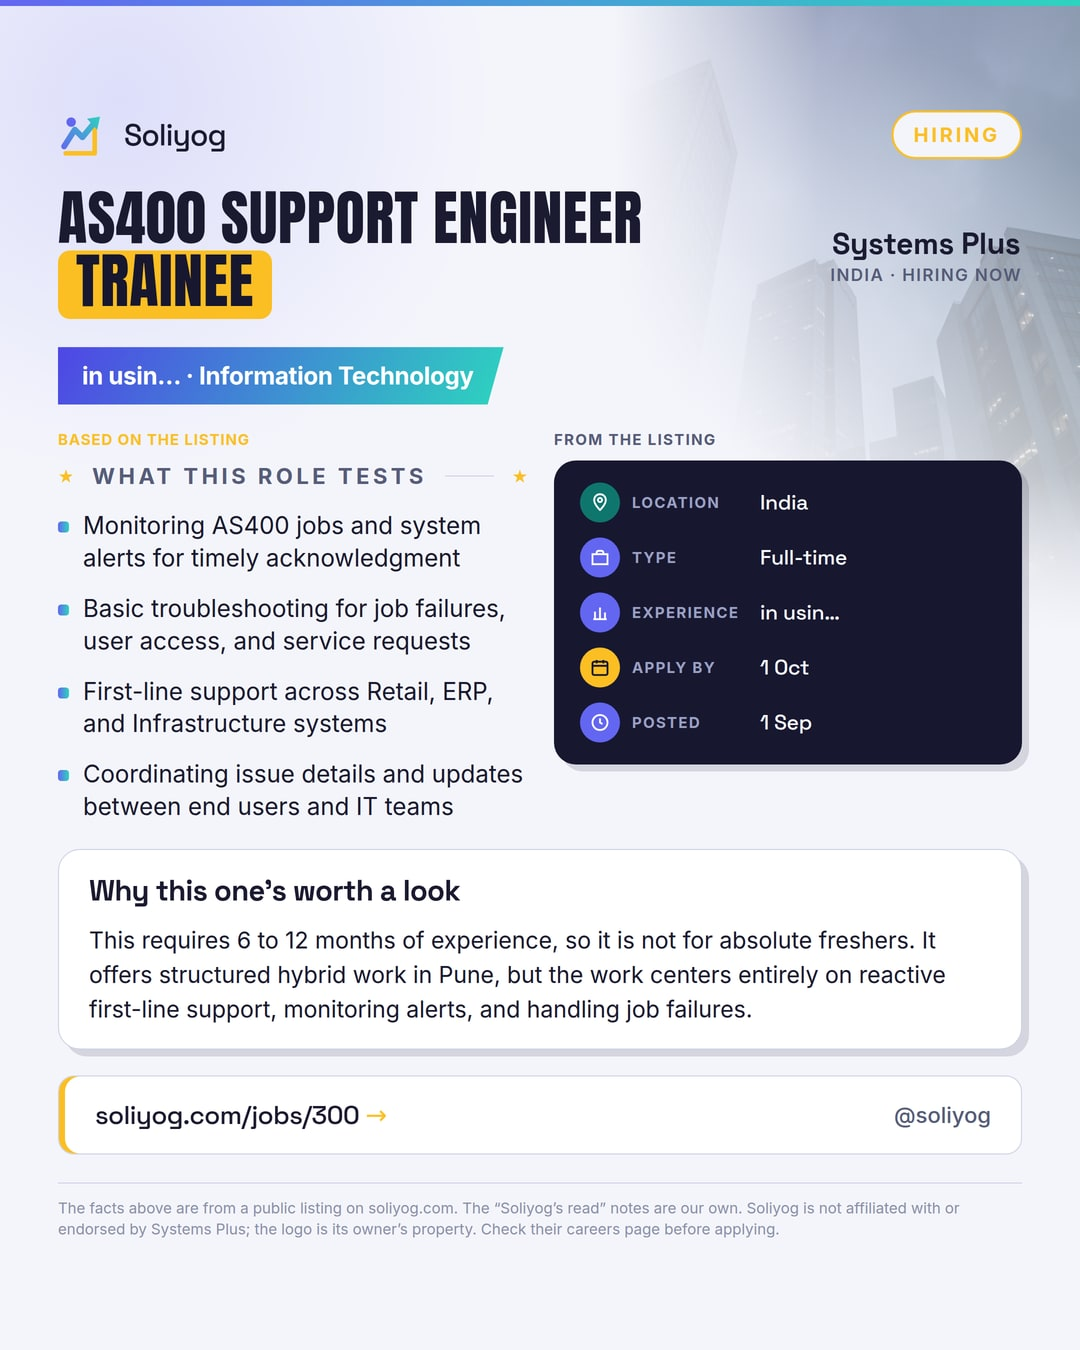
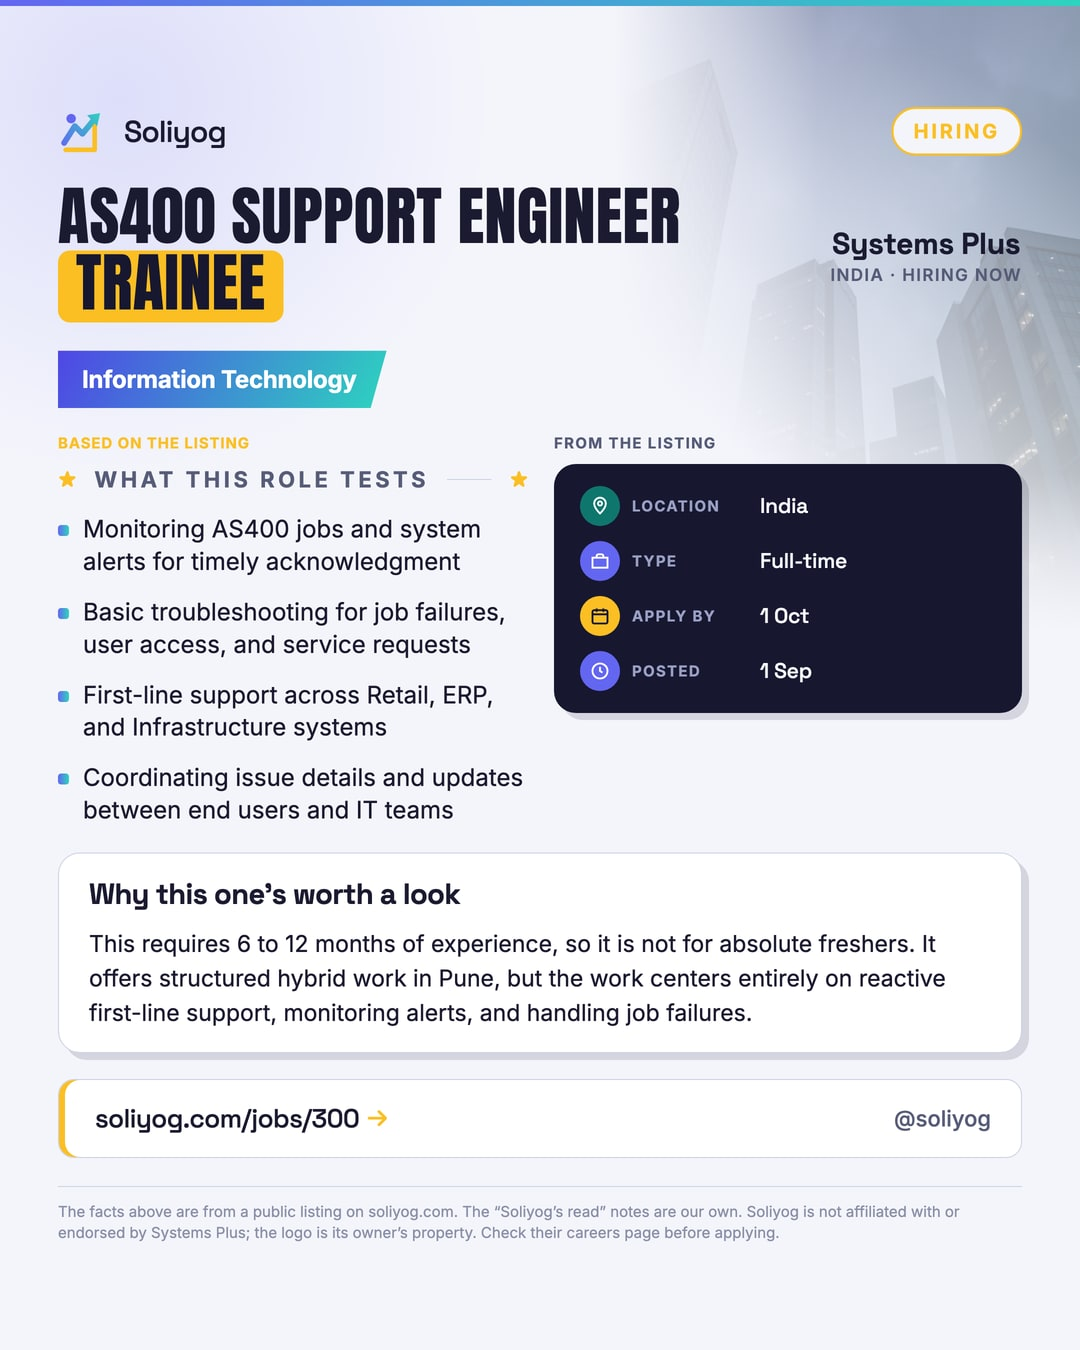
prep: regenerate 2026-09-05/06 captions + posters with the Experience fix
2026-09-05-as400-support-engineer-trainee: caption + poster rebuilt, drops
the garbled "Experience: in usin…" line instead of showing it or guessing
"Freshers welcome" (which contradicted this post's own soliyog_read note).

2026-09-06-ca-industrial-trainee: no defect found, rendered while checking
the rest of the queue against both fixes above — clean.

diff --git a/social/soliyog/queue/2026-09-05-as400-support-engineer-trainee.md b/social/soliyog/queue/2026-09-05-as400-support-engineer-trainee.md
@@ -17,7 +17,6 @@ caption_instagram: |
   
   Location: India
   Type: Full-time
-  Experience: in usin…
   Apply by: 1 Oct
   
   Soliyog's read: This requires 6 to 12 months of experience, so it is not for absolute freshers. It offers structured hybrid work in Pune, but the work centers entirely on reactive first-line support, monitoring alerts, and handling job failures.
@@ -31,7 +30,6 @@ caption_facebook: |
   
   Location: India
   Type: Full-time
-  Experience: in usin…
   Apply by: 1 Oct
   
   Soliyog's read: This requires 6 to 12 months of experience, so it is not for absolute freshers. It offers structured hybrid work in Pune, but the work centers entirely on reactive first-line support, monitoring alerts, and handling job failures.
@@ -45,7 +43,6 @@ caption_linkedin: |
   
   Location: India
   Type: Full-time
-  Experience: in usin…
   Apply by: 1 Oct
   
   Soliyog's read: This requires 6 to 12 months of experience, so it is not for absolute freshers. It offers structured hybrid work in Pune, but the work centers entirely on reactive first-line support, monitoring alerts, and handling job failures.
